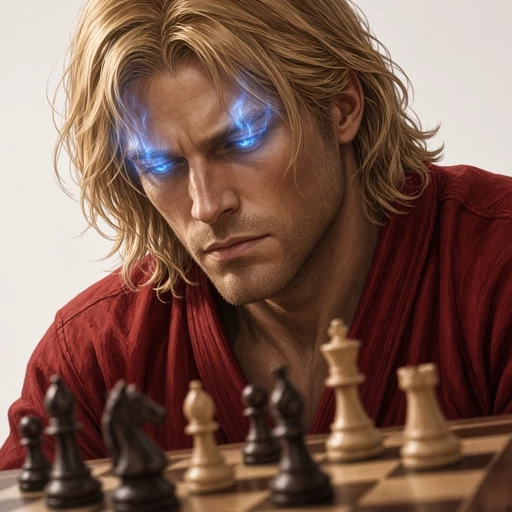
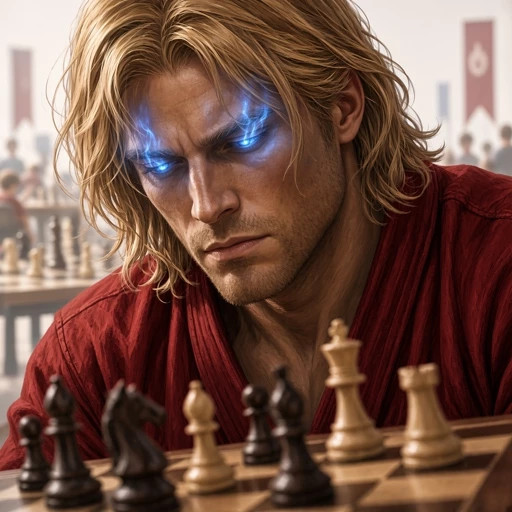
Replace Ken portrait with chess-hall bust
Bump art gen so stale Gallery eye-line tweaks for him are discarded.

diff --git a/src/lib/portrait-focus.ts b/src/lib/portrait-focus.ts
@@ -102,7 +102,7 @@ export const BUILT_IN_PORTRAIT_FOCUS_Y: Readonly<Record<string, number>> = {
  */
 export const PORTRAIT_ART_GEN: Readonly<Record<string, number>> = {
   "diddy-kong": 2,
-  ken: 2,
+  ken: 3,
   "king-dedede": 2,
   "king-k-rool": 2,
   kirby: 2,
